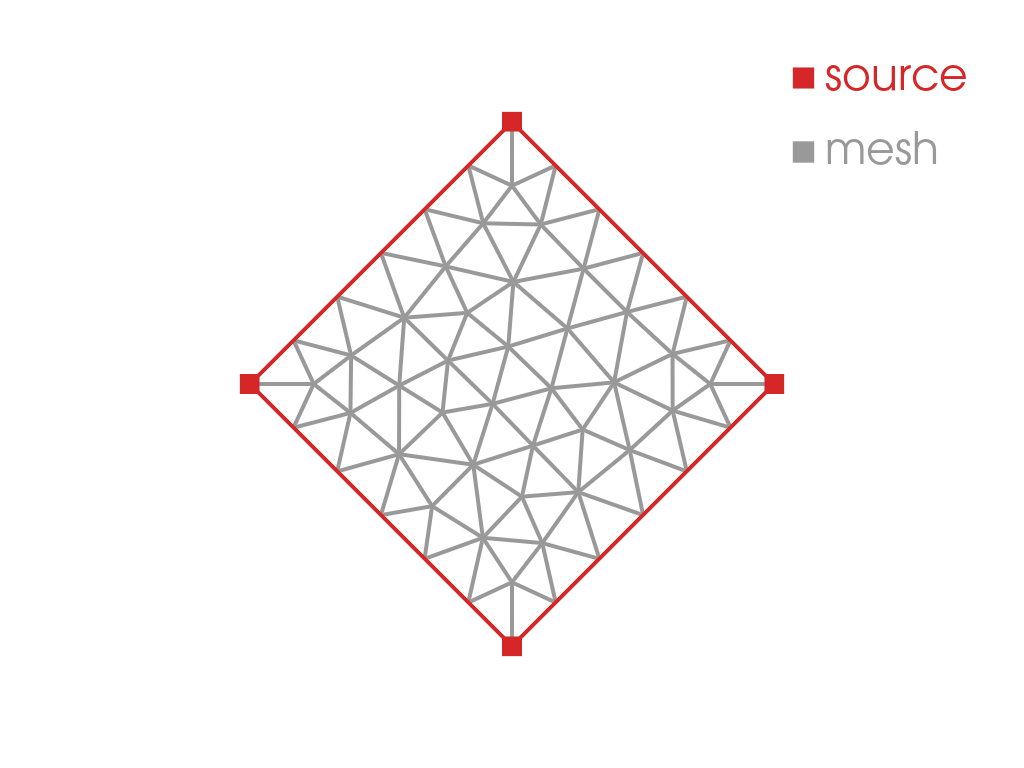
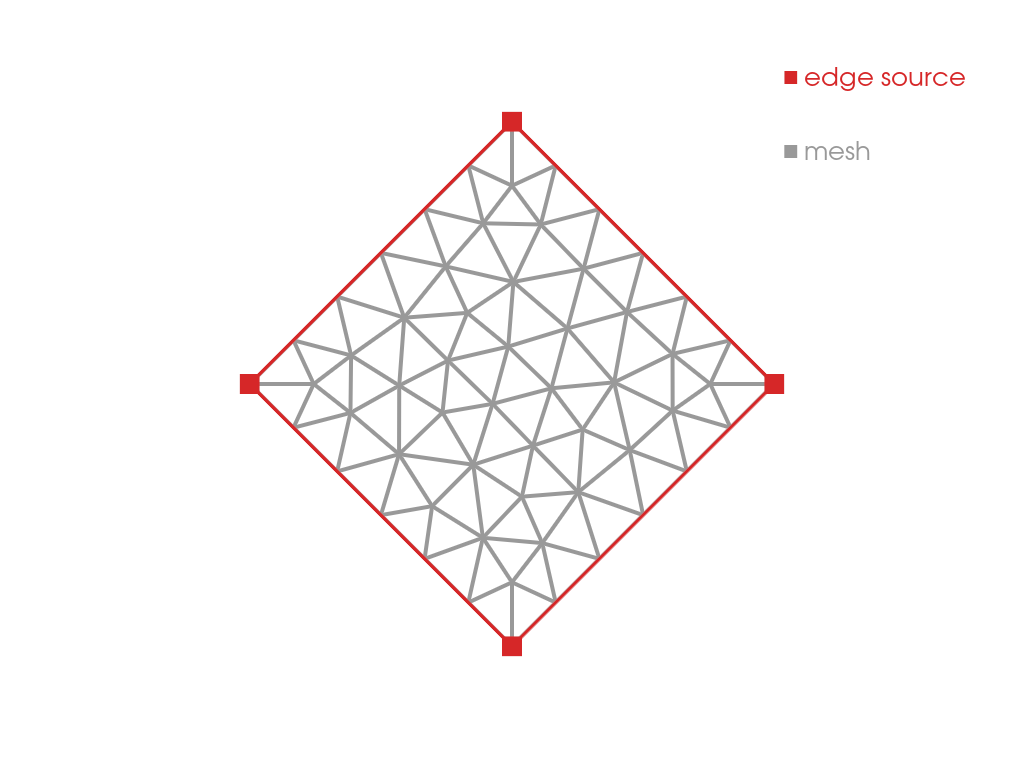
Fix legend name to explicit name edge source

Changed region(s): [[0.75, 0.0625, 0.9375, 0.125], [0.75, 0.1562, 0.9062, 0.2188]]

diff --git a/src/pvgmsh/__init__.py b/src/pvgmsh/__init__.py
@@ -69,7 +69,7 @@ def frontal_delaunay_2d(
     >>> _ = plotter.add_mesh(mesh, show_edges=True, line_width=4, color="white", lighting=False, edge_color=[153, 153, 153])
     >>> _ = plotter.add_mesh(edge_source, show_edges=True, line_width=4, color=[214, 39, 40])
     >>> _ = plotter.add_points(edge_source.points, style="points", point_size=20, color=[214, 39, 40])
-    >>> _ = plotter.add_legend([[" source", [214, 39, 40]], [" mesh ", [153, 153, 153]]], bcolor="white", face="r")
+    >>> _ = plotter.add_legend([[" edge source", [214, 39, 40]], [" mesh ", [153, 153, 153]]], bcolor="white", face="r")
     >>> plotter.show(cpos="xy", screenshot="frontal_delaunay_2d_01.png")
     """
     points = edge_source.points

diff --git a/README.md b/README.md
@@ -56,7 +56,9 @@ _ = plotter.add_points(
     edge_source.points, style="points", point_size=20, color=[214, 39, 40]
 )
 _ = plotter.add_legend(
-    [[" source", [214, 39, 40]], [" mesh ", [153, 153, 153]]], bcolor="white", face="r"
+    [[" edge source", [214, 39, 40]], [" mesh ", [153, 153, 153]]],
+    bcolor="white",
+    face="r",
 )
 plotter.show(cpos="xy")
 ```
